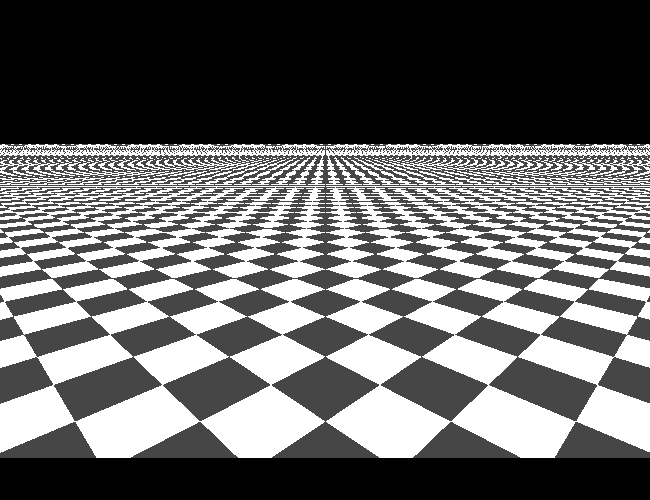
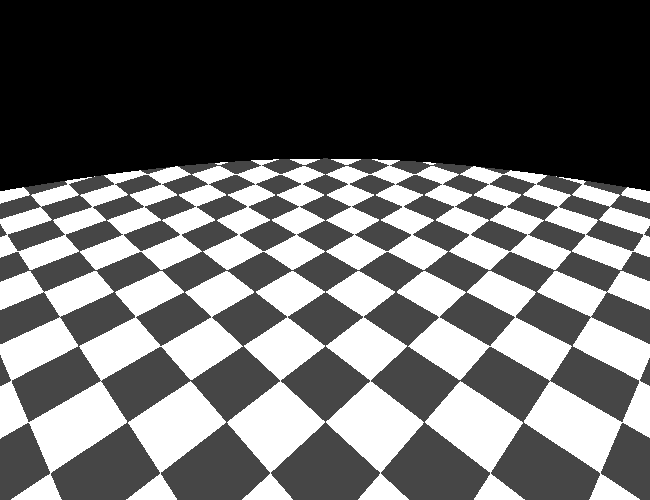
rerendered

diff --git a/Ray-Tracing/Components/Renderer.cpp b/Ray-Tracing/Components/Renderer.cpp
@@ -55,9 +55,9 @@ bool Renderer::loadScene(const std::string& filename) {
 	_image = SDL_GetWindowSurface(_window);
 
 	// Setup Camera
-	_camera = new PerspCamera(glm::vec3(0.0f, 2.0f, 7.0f), 4.0f, _width, _height);
+	_camera = new PerspCamera(glm::vec3(0.0f, 3.0f, 7.0f), 4.0f, _width, _height, 10.0f);
 	// _camera = new OrthoCamera(glm::vec3(0.0f, 5.0f, 10.0f), _width, _height, 500.0f);
-	_camera->setOrientation(45.0f, -15.0f);
+	_camera->setOrientation(45.0f, -35.0f);
 
 	// Setup Objects
 	_objects.push_back(new Ground(glm::vec3(255.0f, 255.0f, 255.0f)));

diff --git a/README.md b/README.md
@@ -5,7 +5,5 @@ Currently a work in progress.
 
 ## Latest Working Version:
 I've gotten basic object intersection working as seen here with the ground.
-
 ![alt text](https://github.com/jmielc2/Ray-Tracing/blob/master/docs/rendered-scene.png?raw=true)
-
-Render Time (Release Version): 8.724200 ms
+Render Time (Release Version): 14.8357 ms
